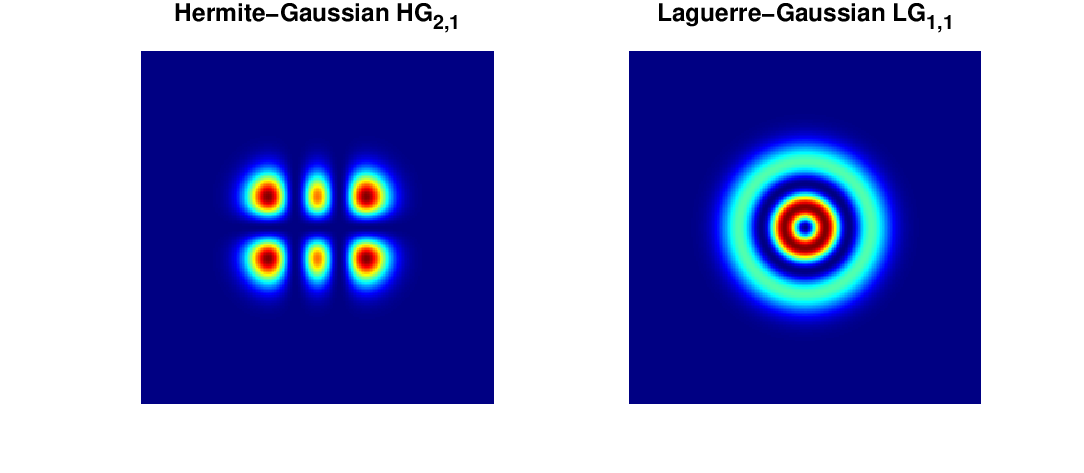
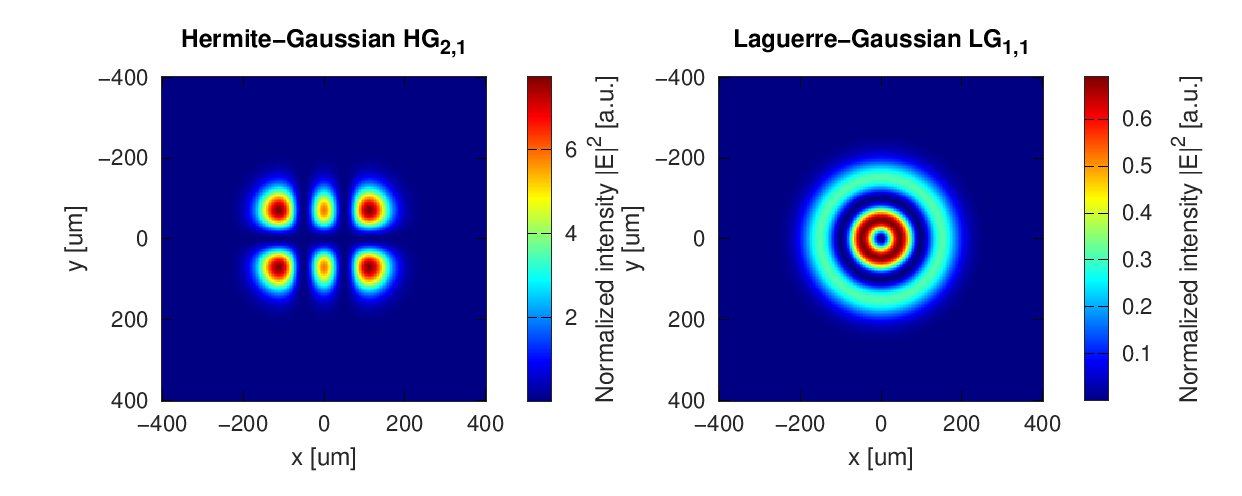
docs: publish GitHub Pages documentation

diff --git a/tools/generate_readme_figures.m b/tools/generate_readme_figures.m
@@ -30,7 +30,8 @@ function generate_readme_figures()
     imagesc(x * 1e6, y * 1e6, intensity);
     axis image;
     applyReadableColormap('parula');
-    colorbar;
+    cb = colorbar;
+    ylabel(cb, 'Normalized intensity |E|^2 [a.u.]');
     xlabel('x [um]');
     ylabel('y [um]');
     title('Gaussian beam intensity at waist');
@@ -42,14 +43,22 @@ function generate_readme_figures()
     Ih = abs(hermite.opticalField(X, Y, 0)).^2;
     Il = abs(laguerre.opticalField(X, Y, 0)).^2;
 
-    fig = figure('visible', 'off', 'position', [100, 100, 960, 420]);
+    fig = figure('visible', 'off', 'position', [100, 100, 1100, 440]);
     subplot(1, 2, 1);
     imagesc(x * 1e6, y * 1e6, Ih);
-    axis image off;
+    axis image;
+    xlabel('x [um]');
+    ylabel('y [um]');
+    cb = colorbar;
+    ylabel(cb, 'Normalized intensity |E|^2 [a.u.]');
     title('Hermite-Gaussian HG_{2,1}');
     subplot(1, 2, 2);
     imagesc(x * 1e6, y * 1e6, Il);
-    axis image off;
+    axis image;
+    xlabel('x [um]');
+    ylabel('y [um]');
+    cb = colorbar;
+    ylabel(cb, 'Normalized intensity |E|^2 [a.u.]');
     title('Laguerre-Gaussian LG_{1,1}');
     applyReadableColormap('parula');
     print(fig, fullfile(outDir, 'hermite_laguerre_modes.png'), '-dpng', '-r160');
@@ -62,7 +71,8 @@ function generate_readme_figures()
     imagesc(x * 1e6, y * 1e6, phaseMap);
     axis image;
     colormap(hsv(256));
-    colorbar;
+    cb = colorbar;
+    ylabel(cb, 'Phase [rad]');
     xlabel('x [um]');
     ylabel('y [um]');
     title('Gaussian wavefront phase after propagation');

diff --git a/docs/api.md b/docs/api.md
@@ -1,0 +1,69 @@
+---
+title: API overview
+---
+
+# API overview
+
+The public API is organized around beam objects, grid utilities, propagation strategies, and wavefront analysis tools. New code should use `BeamFactory.create()` or direct `paraxial.beams.*` classes.
+
+## Beam factory
+
+`BeamFactory.create(type, w0, lambda, ...)` constructs a beam by public type name.
+
+```matlab
+g  = BeamFactory.create('gaussian', 100e-6, 632.8e-9);
+hg = BeamFactory.create('hermite', 100e-6, 632.8e-9, 'n', 2, 'm', 1);
+lg = BeamFactory.create('laguerre', 100e-6, 632.8e-9, 'l', 1, 'p', 0);
+hl = BeamFactory.create('hankel', 100e-6, 632.8e-9, 'l', 2, 'type', 1);
+```
+
+Supported type names include `gaussian`, `hermite`, `laguerre`, `elegant_hermite`, `elegant_laguerre`, `hankel`, `hankel_hermite`, `nhermite`, `xlaguerre`, `elegant_nhermite`, and `elegant_xlaguerre`.
+
+## Beam contract
+
+Every beam exposes the same core methods.
+
+```matlab
+field = beam.opticalField(X, Y, z); % complex field on the input grid
+params = beam.getParameters(z);     % beam parameters evaluated at z
+name = beam.beamName();             % stable descriptive name
+```
+
+`X` and `Y` are coordinate arrays in meters. `z` is the propagation distance in meters. The returned field is complex-valued and can be converted to normalized intensity with `abs(field).^2`.
+
+## Grid utilities
+
+```matlab
+grid = GridUtils(Nx, Ny, Dx, Dy);
+[X, Y] = grid.create2DGrid();
+[Kx, Ky] = grid.createFreqGrid();
+[r, theta] = grid.createPolarGrid();
+```
+
+`Nx` and `Ny` define the sample count. `Dx` and `Dy` define the physical aperture size in meters.
+
+## Propagators
+
+```matlab
+fftProp = FFTPropagator(grid, lambda);
+field_z = fftProp.propagate(beam, z);
+
+analyticProp = AnalyticPropagator(grid);
+field_direct = analyticProp.propagate(beam, z);
+
+rayProp = RayTracePropagator(grid, 'RK4', 1e-3);
+bundle = rayProp.propagate(beam, z);
+```
+
+FFT propagation uses an angular spectrum-style method. Analytic propagation evaluates the beam formula at the destination plane. Ray tracing follows local phase-gradient directions and returns ray-bundle data instead of a field array.
+
+## Physical constants and wavefronts
+
+```matlab
+k = PhysicalConstants.waveNumber(lambda);
+zr = PhysicalConstants.rayleighDistance(w0, lambda);
+R = PhysicalConstants.radiusOfCurvature(z, zr);
+gouy = PhysicalConstants.gouyPhase(z, zr);
+```
+
+Wavefront utilities live under `+paraxial/+visualization/` and support intensity, phase, Zernike fitting, reconstruction, RMS, PV, and Strehl-style diagnostics.

diff --git a/docs/getting-started.md b/docs/getting-started.md
@@ -1,0 +1,67 @@
+---
+title: Getting started
+---
+
+# Getting started
+
+This page shows the shortest path from installation to a propagated paraxial field. All physical quantities are expressed in SI units unless a plot label states otherwise.
+
+## Octave package installation
+
+Install the release package and load it before using the public classes.
+
+```matlab
+pkg install 'https://github.com/dreamjorge/ParaxialOptics/releases/latest/download/paraxial_optics-1.0.1.tar.gz'
+pkg load paraxial_optics
+```
+
+The package exposes `BeamFactory`, grid utilities, propagators, and the canonical `+paraxial/` beam implementations.
+
+## Source checkout setup
+
+Clone the repository and initialize paths from the repository root.
+
+```bash
+git clone https://github.com/dreamjorge/ParaxialOptics.git
+cd ParaxialOptics
+```
+
+```matlab
+setpaths
+```
+
+The root directory must be on the MATLAB/Octave path for `+paraxial/` package resolution. Avoid adding internal `+paraxial/+...` directories directly in new scripts.
+
+## Create a Gaussian beam
+
+```matlab
+w0 = 100e-6;        % waist radius [m]
+lambda = 632.8e-9; % wavelength [m]
+beam = BeamFactory.create('gaussian', w0, lambda);
+```
+
+`BeamFactory.create()` returns an object implementing the beam API contract: `opticalField(X,Y,z)`, `getParameters(z)`, and `beamName()`.
+
+## Evaluate and propagate the field
+
+```matlab
+grid = GridUtils(512, 512, 1e-3, 1e-3);
+[X, Y] = grid.create2DGrid();
+
+field0 = beam.opticalField(X, Y, 0);
+I0 = abs(field0).^2;
+
+prop = FFTPropagator(grid, lambda);
+field_z = prop.propagate(beam, 0.05);
+Iz = abs(field_z).^2;
+```
+
+`I0` and `Iz` are normalized intensity maps in arbitrary units unless the caller applies a physical power normalization. The coordinates returned by `GridUtils` are in meters.
+
+## Run the test suite
+
+```bash
+octave --no-gui --eval "addpath('tests'); status = portable_runner(); if status ~= 0, error('portable_runner failed with %d failing tests', status); end"
+```
+
+The portable runner exercises canonical package classes, legacy compatibility adapters, beam factories, propagation methods, and wavefront analysis.

diff --git a/docs/index.md b/docs/index.md
@@ -1,0 +1,52 @@
+---
+title: ParaxialOptics Documentation
+---
+
+# ParaxialOptics
+
+ParaxialOptics is a MATLAB/GNU Octave library for scalar paraxial beam propagation, transverse mode evaluation, wavefront analysis, and ray-based diagnostics. The public API centers on `BeamFactory.create()` and the canonical `+paraxial/` namespace while preserving legacy adapters for reproducibility.
+
+## Install the Octave package
+
+The v1.x Octave package is distributed as `paraxial_optics`.
+
+```matlab
+pkg install 'https://github.com/dreamjorge/ParaxialOptics/releases/latest/download/paraxial_optics-1.0.1.tar.gz'
+pkg load paraxial_optics
+```
+
+For source checkouts, initialize paths from the repository root.
+
+```matlab
+setpaths
+```
+
+## Quick optical field calculation
+
+```matlab
+beam = BeamFactory.create('gaussian', 100e-6, 632.8e-9);
+
+grid = GridUtils(512, 512, 1e-3, 1e-3);
+[X, Y] = grid.create2DGrid();
+
+field0 = beam.opticalField(X, Y, 0);
+intensity = abs(field0).^2;
+```
+
+`opticalField(X, Y, z)` returns a complex field on the supplied grid. Distances use SI units, so the waist and wavelength above are in meters.
+
+## Generated visual examples
+
+The images below are generated by `tools/generate_readme_figures.m` from the same beam classes used by tests and examples. Color bars now state the plotted units explicitly: normalized intensity in arbitrary units and phase in radians.
+
+![Gaussian beam intensity](assets/gaussian_beam_intensity.png)
+
+![Hermite and Laguerre modes](assets/hermite_laguerre_modes.png)
+
+![Wavefront phase](assets/wavefront_phase.png)
+
+## Documentation map
+
+[Getting started](getting-started.md) shows the recommended setup and propagation workflow. [Examples](examples.md) maps common optics tasks to scripts in `examples/canonical/`. [API overview](api.md) summarizes beam creation, propagation, grid utilities, and wavefront tools.
+
+Project-level references remain available for contributors and users who need implementation details: [Architecture](ARCHITECTURE.md), [Compatibility reduction](COMPATIBILITY_REDUCTION.md), [Roadmap](ROADMAP.md), [Addons inventory](ADDONS_INVENTORY.md), and [Addons cleanup readiness](ADDONS_CLEANUP_READINESS.md).

diff --git a/docs/examples.md b/docs/examples.md
@@ -1,0 +1,51 @@
+---
+title: Examples
+---
+
+# Examples
+
+The recommended scripts live in `examples/canonical/`. They use `setpaths`, `BeamFactory.create()`, and canonical package classes so the same examples work in MATLAB and GNU Octave.
+
+## Gaussian propagation
+
+Use `examples/canonical/MainGauss_refactored.m` to evaluate a fundamental Gaussian mode and compare field propagation behavior. The script is the starting point for checking waist size, Rayleigh distance, intensity normalization, and phase curvature.
+
+```matlab
+run('setpaths.m')
+run('examples/canonical/MainGauss_refactored.m')
+```
+
+## Hermite and Laguerre modes
+
+Use `examples/canonical/MainMultiMode.m` to generate higher-order Hermite-Gaussian and Laguerre-Gaussian beams through the factory API.
+
+```matlab
+run('setpaths.m')
+run('examples/canonical/MainMultiMode.m')
+```
+
+Mode indices are passed as name-value arguments.
+
+```matlab
+hg = BeamFactory.create('hermite', 100e-6, 632.8e-9, 'n', 2, 'm', 1);
+lg = BeamFactory.create('laguerre', 100e-6, 632.8e-9, 'l', 1, 'p', 1);
+```
+
+## Ray tracing diagnostics
+
+Use `examples/canonical/ExampleRayTracing.m` to inspect ray bundles derived from beam phase gradients. Ray tracing is useful when comparing field-based propagation with local wavefront slopes.
+
+```matlab
+run('setpaths.m')
+run('examples/canonical/ExampleRayTracing.m')
+```
+
+## Regenerating README and Pages images
+
+The figures embedded in the README and this Pages site come from one script.
+
+```bash
+octave --no-gui tools/generate_readme_figures.m
+```
+
+The script writes PNG files to `docs/assets/`. Intensity plots use normalized `|E|^2` in arbitrary units; phase plots use radians.

diff --git a/CHANGELOG.md b/CHANGELOG.md
@@ -2,6 +2,14 @@
 
 All notable changes to this project are documented in this file.
 
+## [Unreleased]
+
+### Added
+- Add GitHub Pages documentation with getting started, examples, and API overview pages.
+
+### Changed
+- Label generated README figure color bars with physical/plot units: normalized intensity in arbitrary units and phase in radians.
+
 ## [v1.0.1] - 2026-05-27
 
 ### Added

diff --git a/README.md b/README.md
@@ -7,6 +7,8 @@ Paraxial beam propagation and wavefront analysis in GNU Octave and MATLAB.
 [![Octave CI](https://github.com/dreamjorge/ParaxialOptics/actions/workflows/octave.yml/badge.svg)](https://github.com/dreamjorge/ParaxialOptics/actions/workflows/octave.yml)
 [![MATLAB CI](https://github.com/dreamjorge/ParaxialOptics/actions/workflows/matlab.yml/badge.svg)](https://github.com/dreamjorge/ParaxialOptics/actions/workflows/matlab.yml)
 
+Documentation: https://dreamjorge.github.io/ParaxialOptics/
+
 ## Project Status
 
 **v1.0.1** — Current release. `+paraxial/` is the canonical namespace.
@@ -44,6 +46,10 @@ ParaxialOptics/
 │   └── edge_cases/             # Edge case and regression tests
 ├── src/                        # Deprecated transition adapters
 ├── docs/
+│   ├── index.md                # GitHub Pages documentation home
+│   ├── getting-started.md      # Installation and first propagation workflow
+│   ├── examples.md             # Canonical example guide
+│   ├── api.md                  # Public API overview
 │   ├── ARCHITECTURE.md         # Architecture documentation
 │   ├── COMPATIBILITY_REDUCTION.md
 │   ├── ADDONS_INVENTORY.md